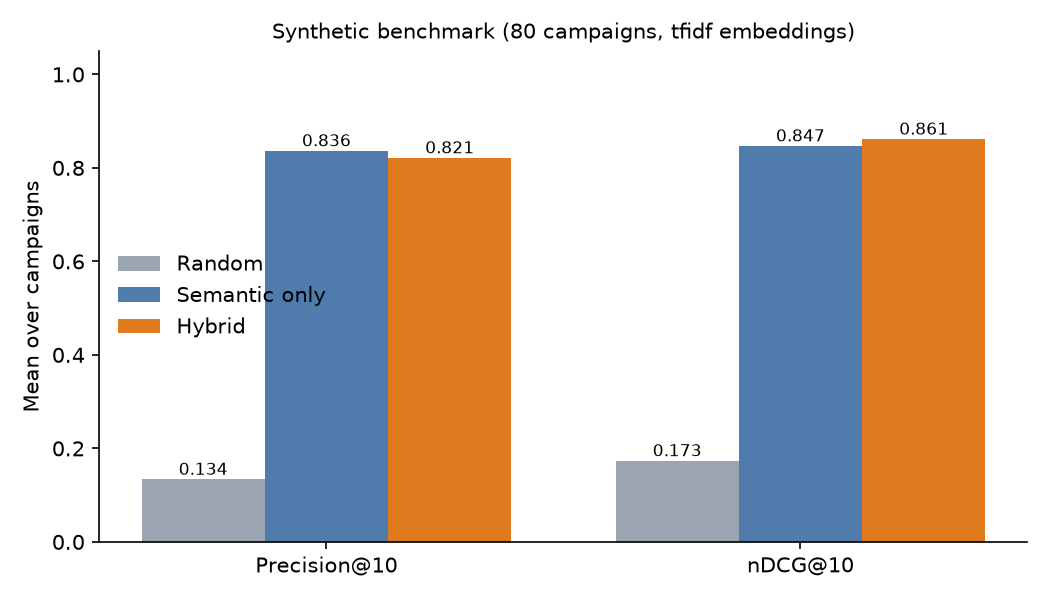
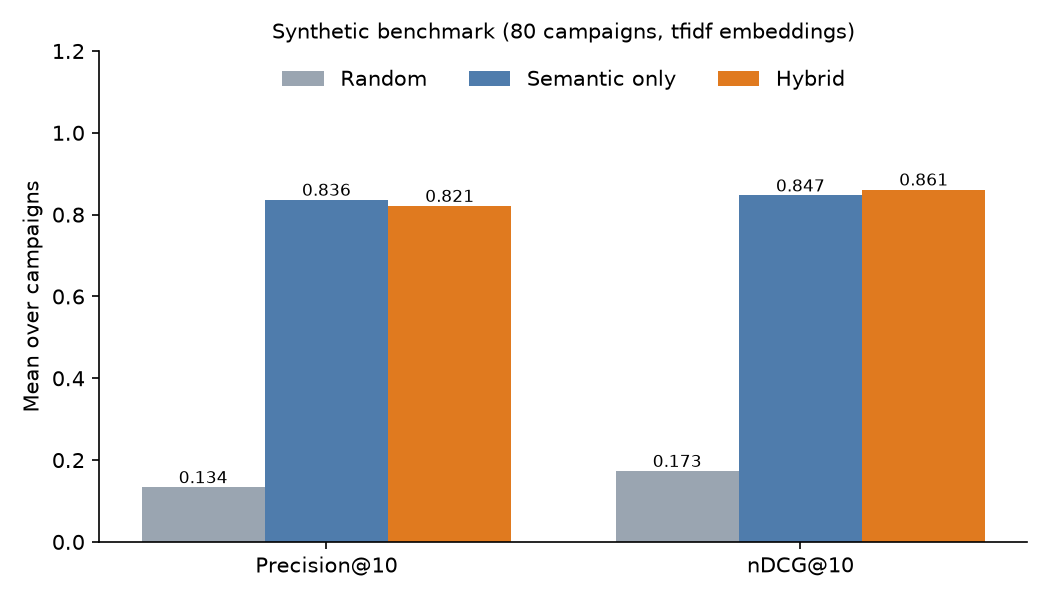
docs: describe the pgvector path as unexecuted reference SQL; fix figure legend and API table

diff --git a/eval/evaluate.py b/eval/evaluate.py
@@ -122,12 +122,12 @@ def plot(results: dict, path: Path) -> None:
         for b, v in zip(bars, vals):
             ax.text(b.get_x() + b.get_width() / 2, v + 0.01, f"{v:.3f}", ha="center", fontsize=8)
     ax.set_xticks(range(len(metrics)), [f"Precision@{K}", f"nDCG@{K}"])
-    ax.set_ylim(0, 1.05)
+    ax.set_ylim(0, 1.2)  # headroom so the legend row clears the bars
     ax.set_ylabel("Mean over campaigns")
     ax.set_title(f"Synthetic benchmark ({results['campaigns_evaluated']} campaigns, "
                  f"{results['embedder']} embeddings)", fontsize=10)
     ax.spines[["top", "right"]].set_visible(False)
-    ax.legend(frameon=False)
+    ax.legend(frameon=False, loc="upper center", ncol=3)
     fig.tight_layout()
     fig.savefig(path, facecolor="white")
 

diff --git a/src/matching/api.py b/src/matching/api.py
@@ -1,4 +1,4 @@
-"""FastAPI service. Run: uvicorn matching.api:app --app-dir src"""
+"""FastAPI service. Run: uvicorn matching.api:create_app --factory --app-dir src"""
 from __future__ import annotations
 
 import uuid

diff --git a/README.md b/README.md
@@ -1,33 +1,35 @@
 # Matchfluence Matching Engine
 
-**Explainable brand ↔ creator matching for an influencer-marketing marketplace: embedding retrieval with pgvector, then a hybrid re-rank that says *why* each creator was picked.**
+**Explainable brand ↔ creator matching for an influencer-marketing marketplace: embedding retrieval, then a hybrid re-rank that says *why* each creator was picked.** The demo runs in memory; the same retrieval step is written for Supabase/pgvector as reference SQL.
 
 [![CI](https://github.com/DanielYamanoglu/matchfluence-matching/actions/workflows/ci.yml/badge.svg)](https://github.com/DanielYamanoglu/matchfluence-matching/actions/workflows/ci.yml)
 ![Python](https://img.shields.io/badge/Python-3.12-blue)
 ![FastAPI](https://img.shields.io/badge/FastAPI-service-009688)
-![Supabase](https://img.shields.io/badge/Supabase-pgvector-3ECF8E)
+![pgvector](https://img.shields.io/badge/pgvector-reference%20SQL-3ECF8E)
 ![scikit-learn](https://img.shields.io/badge/scikit--learn-TF--IDF-F7931E)
 ![License](https://img.shields.io/badge/license-MIT-green)
 
 > Matchfluence is a B2B SaaS marketplace I built the backend for (Supabase). The production code is private. This repo rebuilds the **matching approach** from scratch as a standalone demo on **synthetic data**. Every brand, creator and campaign here is generated.
 
-<p align="center"><img src="assets/architecture.svg" width="860" alt="Brief to embedding to pgvector retrieval to hybrid re-rank to explained matches"></p>
+<p align="center"><img src="assets/architecture.svg" width="860" alt="Brief to embedding to vector retrieval to hybrid re-rank to explained matches"></p>
 
 ## How it works
 
-1. **Embed:** creator profiles (niche, bio, content topics) and campaign briefs become vectors. The default is `all-MiniLM-L6-v2` via sentence-transformers. A deterministic TF-IDF embedder kicks in when that isn't installed, so everything runs offline.
-2. **Retrieve (stage 1, in Postgres):** [`match_creators()`](supabase/migrations/20260101000100_match_function.sql) applies hard filters (audience country share, follower range, budget), then orders by pgvector cosine distance. It runs as `security invoker`, so [RLS](supabase/migrations/20260101000200_rls.sql) applies to the calling brand.
+1. **Embed:** creator profiles (niche, bio, content topics) and campaign briefs become vectors. A deterministic TF-IDF embedder is used out of the box, so everything runs offline; every number in this README comes from it. `all-MiniLM-L6-v2` via sentence-transformers is an optional drop-in (`requirements-optional.txt`) that was not benchmarked here.
+2. **Retrieve (stage 1):** hard filters (audience country share, follower range, budget), then cosine top-k. In this repo that runs over an in-memory NumPy index. The same step is written for Postgres in [`match_creators()`](supabase/migrations/20260101000100_match_function.sql): pgvector cosine distance with an HNSW index, `security invoker` so [RLS](supabase/migrations/20260101000200_rls.sql) applies to the calling brand. That SQL is a reference design and is not executed by anything here (see [Status and limits](#status-and-limits)).
 3. **Re-rank (stage 2, in the app):** [`scoring.py`](src/matching/scoring.py) adds the rule features to the semantic score:
 
    | Feature | Weight | Meaning |
    |---|---|---|
-   | semantic | 0.50 | brief ↔ profile similarity, scaled to [0, 1] |
+   | semantic | 0.50 | brief ↔ profile similarity, min-max scaled to [0, 1] within the retrieved candidate pool |
    | audience_overlap | 0.20 | share of the creator's audience in the target countries |
    | engagement | 0.10 | engagement rate vs an 8 % benchmark |
    | budget_fit | 0.10 | rate within budget, preferring creators that use it well |
    | past_performance | 0.10 | historical campaign outcome score |
 
 4. **Explain:** every match returns its score breakdown plus a one-line reason.
+
+Because the semantic score is scaled within the candidate pool (5·k candidates), it is a relative rank signal, not a raw cosine similarity, and final scores shift slightly with `k`.
 
 ```text
 #1 @demo_creator_0700  score=0.788  semantic=0.49  audience_overlap=0.07  engagement=0.10 ...
@@ -46,7 +48,7 @@ uvicorn matching.api:create_app --factory --app-dir src
 |---|---|---|
 | GET | `/health` | status, number of creators, active embedder |
 | GET | `/campaigns` | list campaigns |
-| POST | `/campaigns/{id}/matches` | top-k explained matches (optional `k`, filters) |
+| POST | `/campaigns/{id}/matches` | top-k explained matches (optional `k`) |
 | POST | `/creators` | add a creator; embedded and indexed on insert |
 
 Interactive docs are at `/docs`.
@@ -67,7 +69,7 @@ Hybrid vs semantic-only, with 95 % bootstrap CIs:
 
 Hybrid ranks the best creators higher and brings in audiences that better match the target countries. It trades a little raw precision for that.
 
-The synthetic labels weight topical fit heavily, which favours a pure text model by construction. Treat these numbers as a sanity check of the pipeline, not as a production benchmark.
+Read these numbers as a sanity check of the pipeline, not as a benchmark. The relevance labels are generated by a formula that uses topical fit plus the same audience, engagement, budget and past-performance features the re-ranker scores, so the hybrid gain is partly circular; bios and briefs draw on shared per-niche vocabularies, and the TF-IDF vocabulary is fitted on creators and evaluation briefs together.
 
 <p align="center"><img src="reports/figures/retrieval_quality.png" width="640" alt="Retrieval quality by method"></p>
 
@@ -97,11 +99,12 @@ tests/                 scoring, filters, matcher, API
 
 ## Status and limits
 
-- The SQL migrations parse cleanly but were not executed against a live Postgres in this repo. `PgVectorIndex` is not covered by the test suite.
+- The Postgres path is an unexecuted sketch. The SQL migrations were not run against a live database, `PgVectorIndex` is not used by the API, demo, evaluation or tests, the schema uses `uuid` keys while the demo data uses string ids, and nothing writes `campaigns.brief_embedding` yet.
 - Weights are hand-set. Learning them from campaign outcomes (learning-to-rank) is the obvious next step.
 
 ## What I'd do next
 
+- Make the Postgres path real: seed a local Supabase with uuid ids, write brief embeddings, and add an integration test that compares `match_creators()` with the in-memory index.
 - Learn the re-rank weights from accepted/declined offers (LambdaMART or a small pairwise model).
 - Add an LLM pass that rewrites the explanation for the brand and flags brand-safety risks.
 - Add integration tests against a Supabase local stack in CI.
